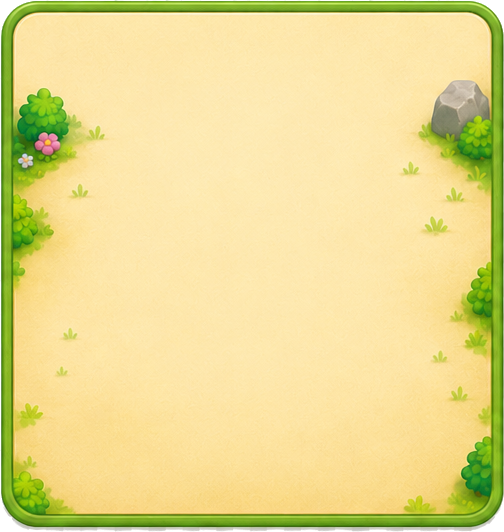
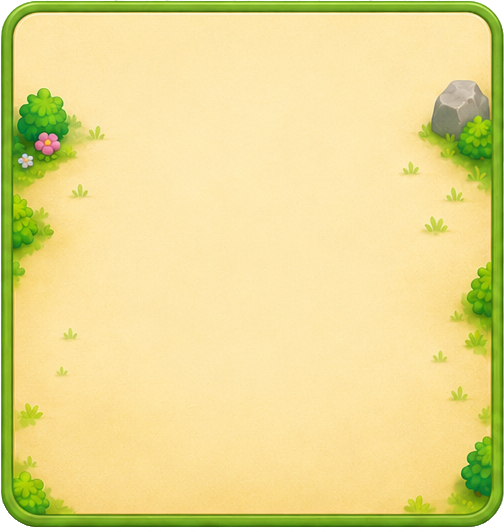
perf(assets): ship avif/webp variants for hero modal assets
The screen-mission set (panel, avatar, adorno, close-icon) and the PRO
banner + panel asset (committed in the previous commit) all shipped as
.png-only — out of pattern vs the rest of /art/ which serves
avif/webp/png. This closes that gap: cwebp + avifenc generate the
optimized siblings, then components swap inline <img> tags for
<picture> with avif/webp/png sources, and the two background-image
inline styles (panel-mision, panel-suscription) migrate to
image-set(avif, webp, png) with the same source order.

Compression savings on the modern path:
  chesscito-header-pro-icon  1.4 MB  →   170 KB (avif)  88% smaller
  panel-suscription-pro      439 KB  →    20 KB (avif)  95%
  panel-mision-icon          365 KB  →    20 KB (avif)  94%
  avatar-icon                139 KB  →    31 KB (avif)  78%
  close-icon                  23 KB  →   4.4 KB (avif)  81%
  adorno-icon                5.5 KB  →   2.0 KB (avif)  66%

Total hero-asset payload on the avif path drops from ~2.4 MB to ~250 KB.
PNG fallback path stays intact for browsers without modern format
support. Touched: contextual-header (global close button shared by
every close-control sheet) + mission-briefing (panel bg + close + avatar
+ adorno).

panel-mision-icon.png is also re-exported from the updated design source
(higher definition than the prior raster).

1864/1864 tests passing.

Wolfcito 🐾 @akawolfcito

Changed region(s): [[0.0595, 0.9925, 0.9524, 1.0], [0.9524, 0.9624, 0.9821, 0.9925], [0.0298, 0.9624, 0.0595, 0.9925]]

diff --git a/apps/web/src/components/exercises/mission-briefing.tsx b/apps/web/src/components/exercises/mission-briefing.tsx
@@ -68,7 +68,7 @@ export function MissionBriefing({
           className="relative w-full"
           style={{
             backgroundImage:
-              "url('/art/screen-mission/panel-mision-icon.png')",
+              'image-set(url("/art/screen-mission/panel-mision-icon.avif") type("image/avif"), url("/art/screen-mission/panel-mision-icon.webp") type("image/webp"), url("/art/screen-mission/panel-mision-icon.png") type("image/png"))',
             backgroundSize: "100% 100%",
             backgroundRepeat: "no-repeat",
           }}
@@ -96,25 +96,45 @@ export function MissionBriefing({
                 aria-label="Close"
                 className="candy-close-asset-button"
               >
-                <img
-                  src="/art/screen-mission/close-icon.png"
-                  alt=""
-                  aria-hidden="true"
-                  className="h-10 w-10 object-contain"
-                  draggable={false}
-                />
+                <picture>
+                  <source
+                    srcSet="/art/screen-mission/close-icon.avif"
+                    type="image/avif"
+                  />
+                  <source
+                    srcSet="/art/screen-mission/close-icon.webp"
+                    type="image/webp"
+                  />
+                  <img
+                    src="/art/screen-mission/close-icon.png"
+                    alt=""
+                    aria-hidden="true"
+                    className="h-10 w-10 object-contain"
+                    draggable={false}
+                  />
+                </picture>
               </button>
             </div>
 
             {/* Avatar — the gold ring is baked into the asset. */}
             <div className="mt-4 flex items-center justify-center">
-              <img
-                src="/art/screen-mission/avatar-icon.png"
-                alt=""
-                aria-hidden="true"
-                className="h-32 w-32 object-contain drop-shadow-[0_3px_10px_rgba(120,65,5,0.45)]"
-                draggable={false}
-              />
+              <picture>
+                <source
+                  srcSet="/art/screen-mission/avatar-icon.avif"
+                  type="image/avif"
+                />
+                <source
+                  srcSet="/art/screen-mission/avatar-icon.webp"
+                  type="image/webp"
+                />
+                <img
+                  src="/art/screen-mission/avatar-icon.png"
+                  alt=""
+                  aria-hidden="true"
+                  className="h-32 w-32 object-contain drop-shadow-[0_3px_10px_rgba(120,65,5,0.45)]"
+                  draggable={false}
+                />
+              </picture>
             </div>
 
             {/* Objective — large bold, anchors the eye. */}
@@ -158,13 +178,23 @@ export function MissionBriefing({
 
             {/* Decorative crown divider — separates the primary CTA
                 from the secondary Arena escape link. */}
-            <img
-              src="/art/screen-mission/adorno-icon.png"
-              alt=""
-              aria-hidden="true"
-              className="mt-3 h-4 w-44 object-contain"
-              draggable={false}
-            />
+            <picture>
+              <source
+                srcSet="/art/screen-mission/adorno-icon.avif"
+                type="image/avif"
+              />
+              <source
+                srcSet="/art/screen-mission/adorno-icon.webp"
+                type="image/webp"
+              />
+              <img
+                src="/art/screen-mission/adorno-icon.png"
+                alt=""
+                aria-hidden="true"
+                className="mt-3 h-4 w-44 object-contain"
+                draggable={false}
+              />
+            </picture>
 
             <Link
               href="/arena"

diff --git a/apps/web/src/components/ui/contextual-header.tsx b/apps/web/src/components/ui/contextual-header.tsx
@@ -521,13 +521,23 @@ function CloseControlHeader(
         className="candy-close-asset-button"
         data-slot="close-control"
       >
-        <img
-          src="/art/screen-mission/close-icon.png"
-          alt=""
-          aria-hidden="true"
-          className="h-10 w-10 object-contain"
-          draggable={false}
-        />
+        <picture>
+          <source
+            srcSet="/art/screen-mission/close-icon.avif"
+            type="image/avif"
+          />
+          <source
+            srcSet="/art/screen-mission/close-icon.webp"
+            type="image/webp"
+          />
+          <img
+            src="/art/screen-mission/close-icon.png"
+            alt=""
+            aria-hidden="true"
+            className="h-10 w-10 object-contain"
+            draggable={false}
+          />
+        </picture>
       </button>
     </header>
   );
